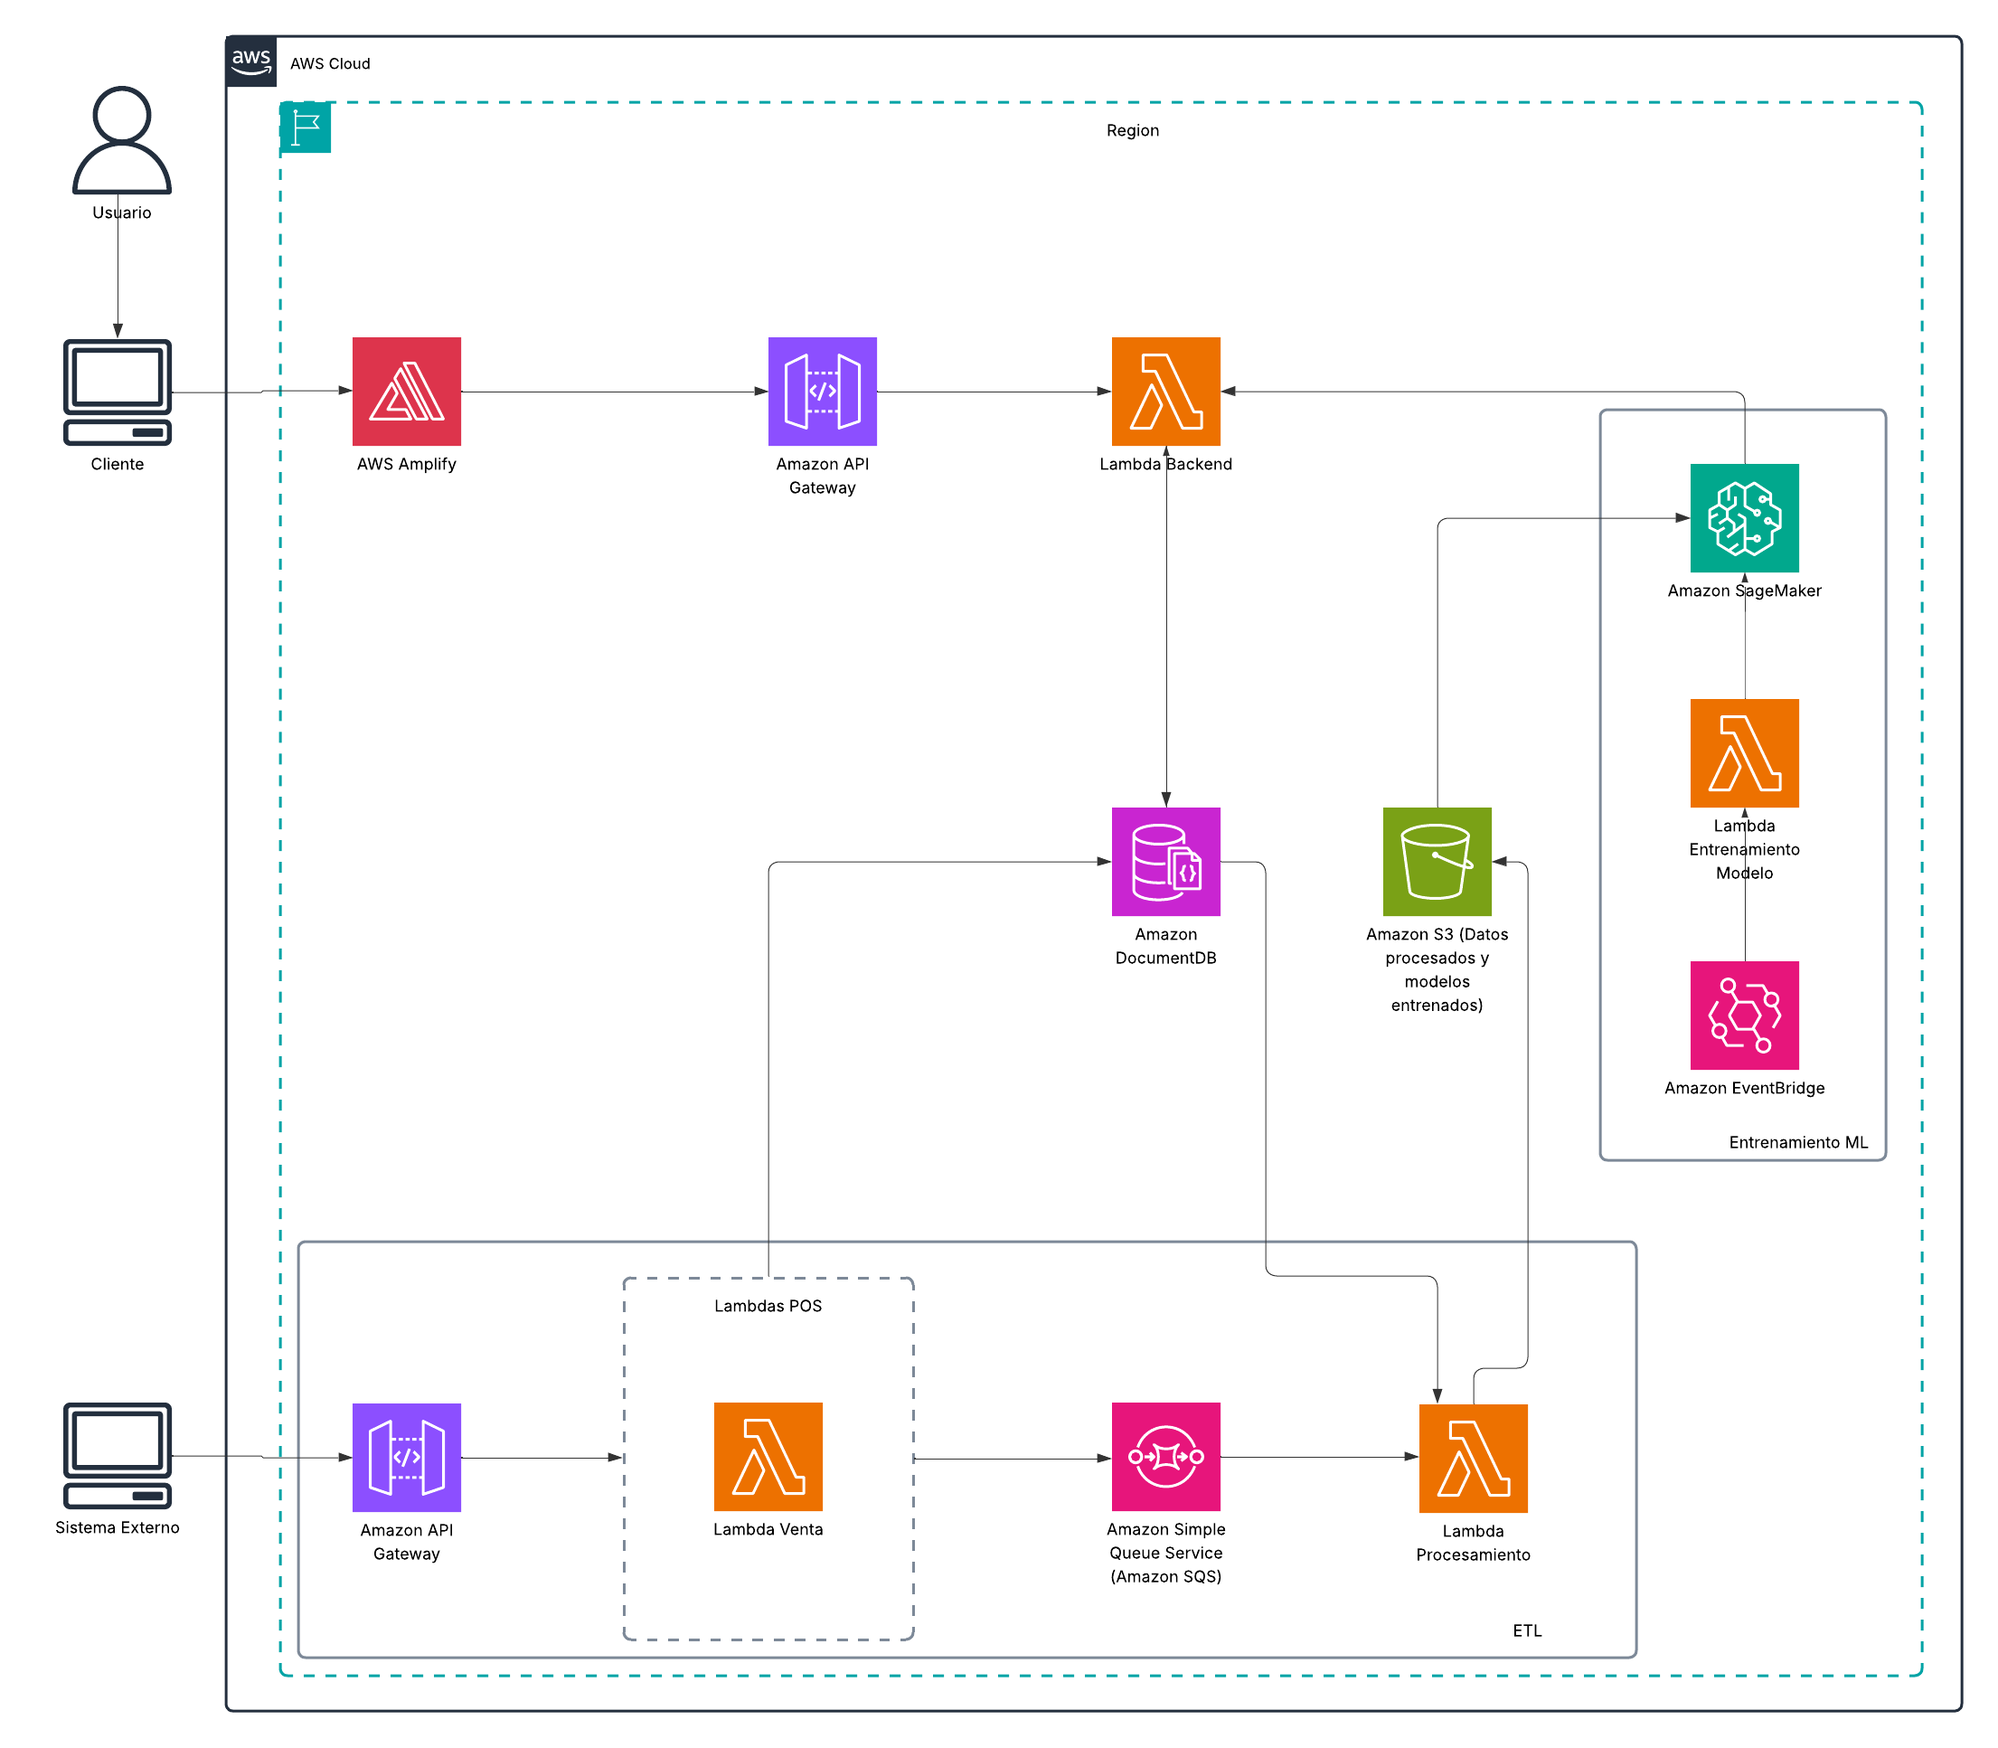
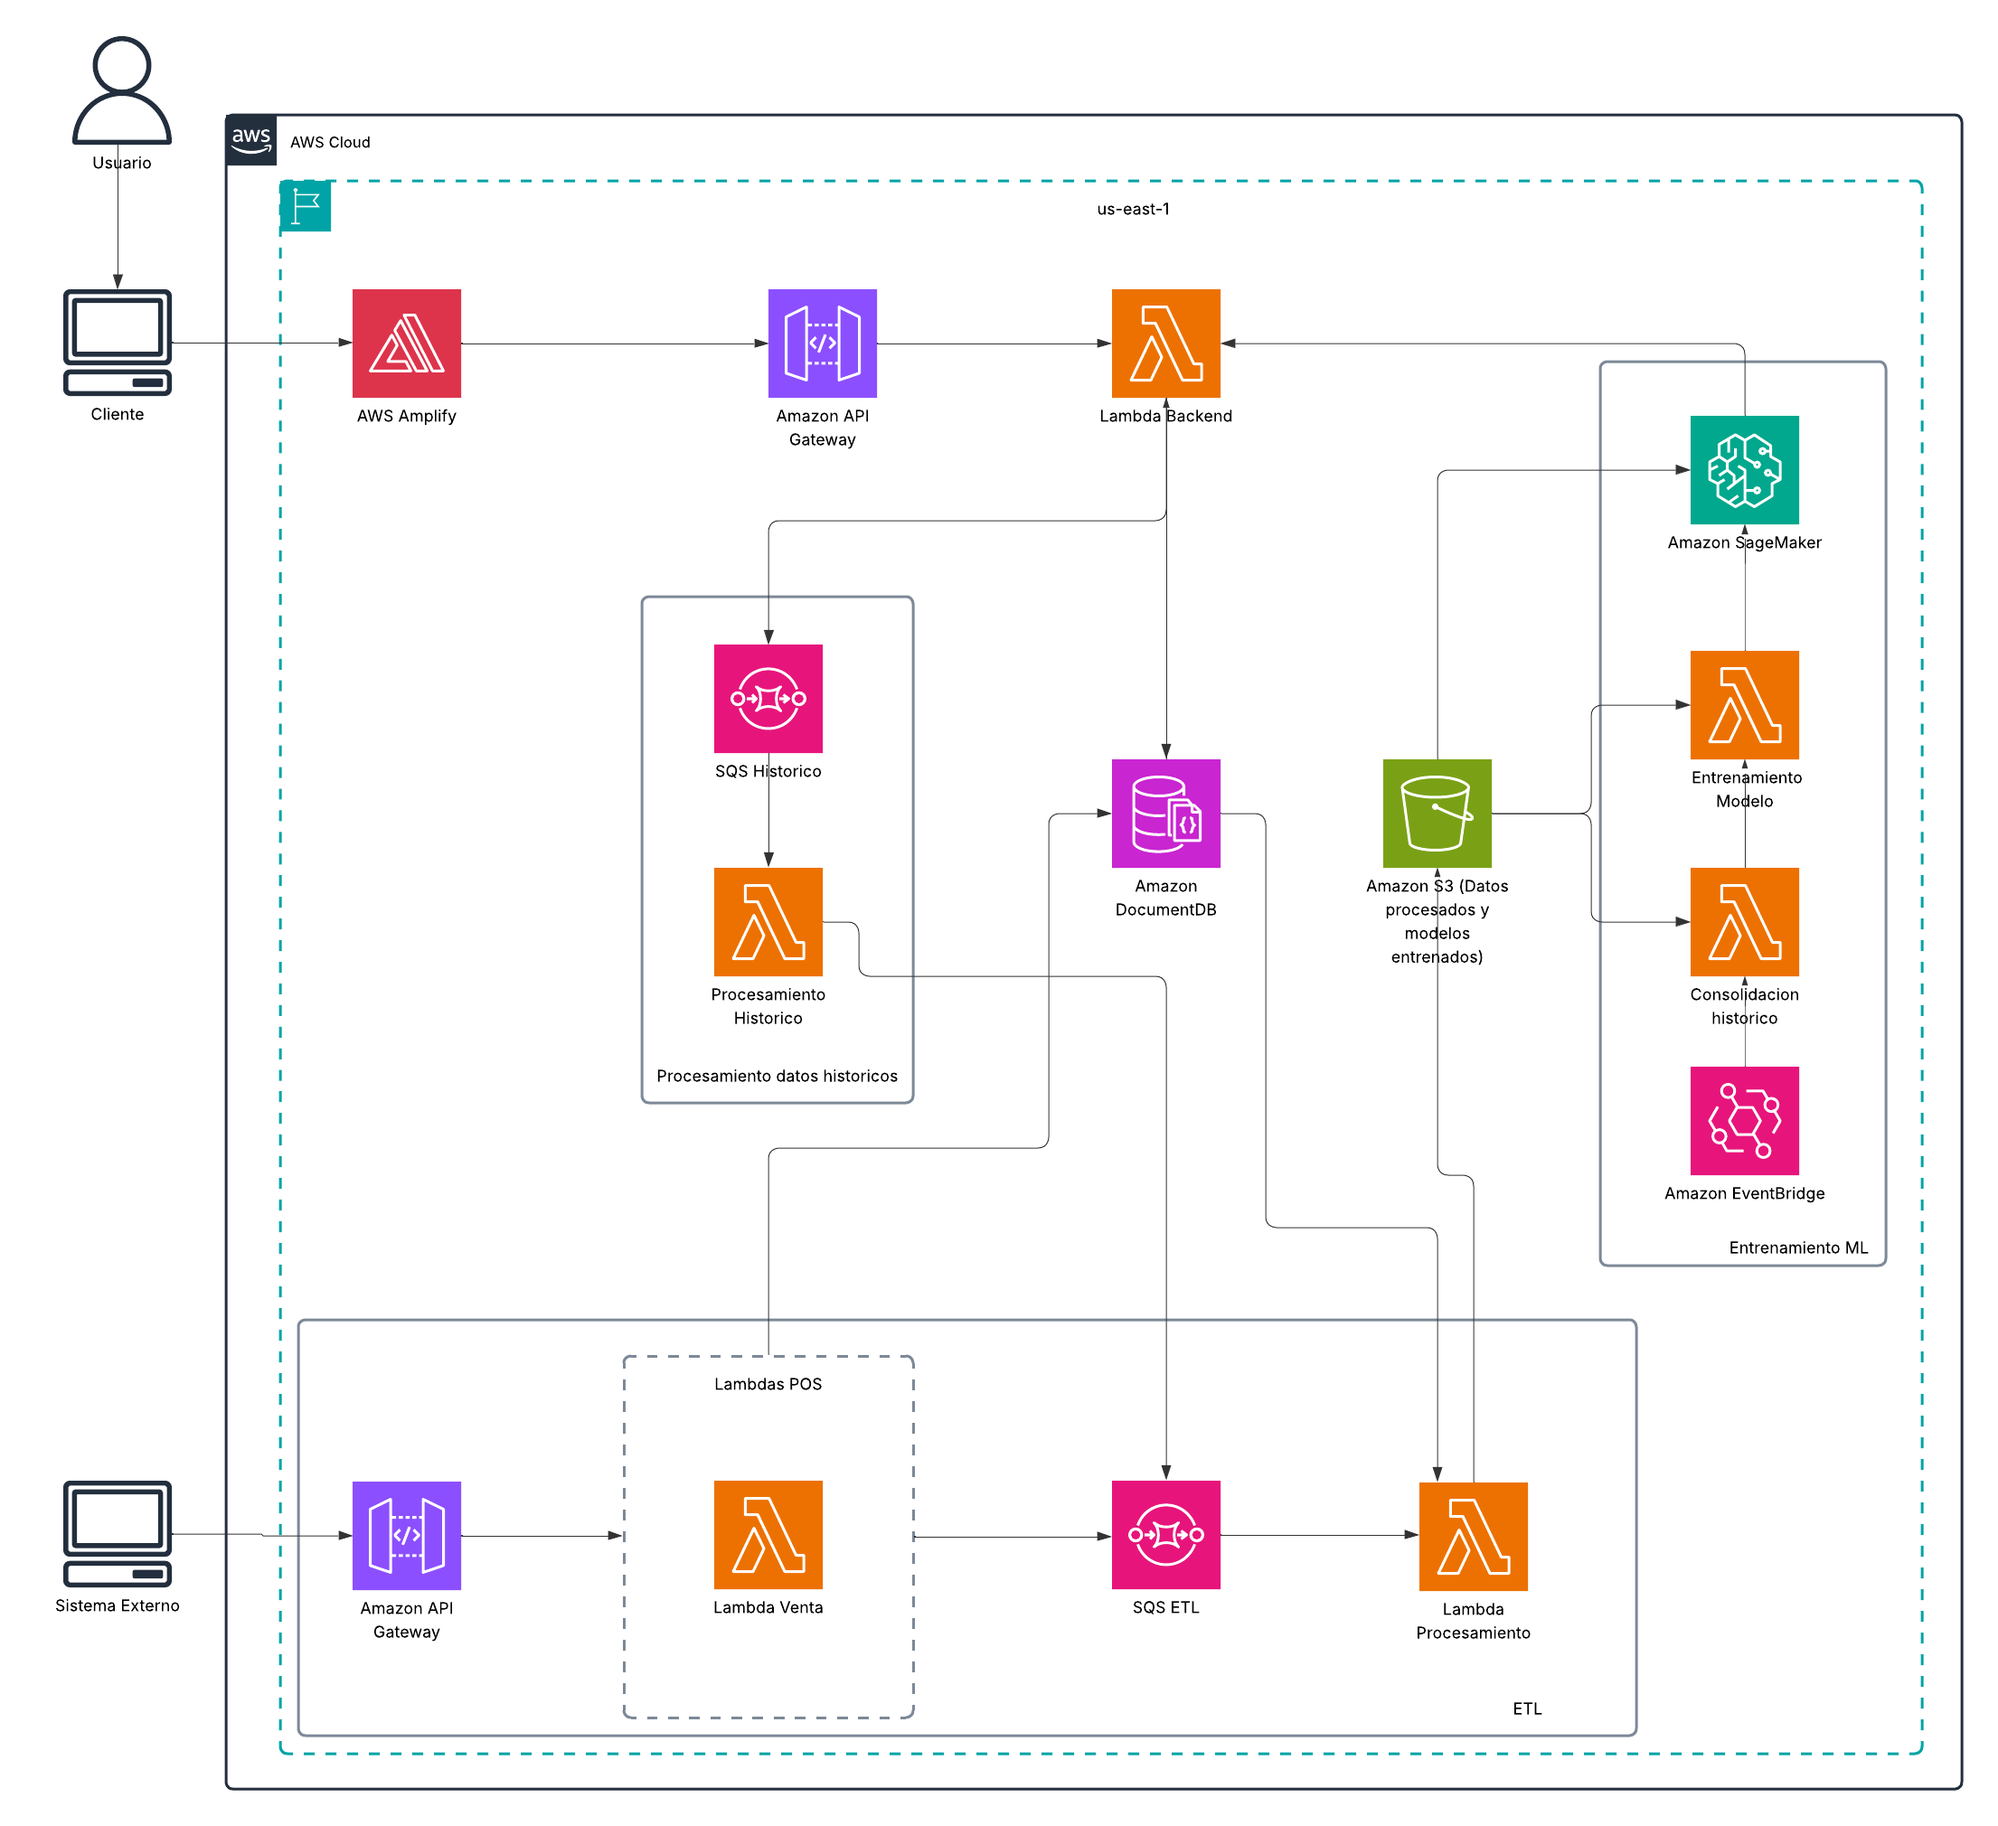
seccion tecnologias

diff --git a/chapters/chapter04.tex b/chapters/chapter04.tex
@@ -271,12 +271,47 @@ El módulo de notificaciones cumple un rol preventivo. Cada vez que un insumo al
 
 El valor de este componente radica en su capacidad para evitar interrupciones operativas. En un negocio gastronómico, la ausencia de un ingrediente clave no solo afecta la venta de un plato específico, sino que también impacta en la experiencia del cliente y en la reputación del local. Por esta razón, las alertas de stock bajo no deben considerarse únicamente como un aviso técnico, sino como un mecanismo de aseguramiento de la calidad del servicio.
 
+\section{Tecnologías utilizadas}\label{sec:tecnologias-utilizadas}
+
+SmartStocker se basa en una serie de tecnologías y herramientas que permiten su funcionamiento eficiente y escalable. A continuación, se detallan las principales tecnologías utilizadas en el desarrollo de la solución:
+
+\subsection{Next.js}\label{sec:nextjs}
+
+Framework basado en React que permite crear aplicaciones web optimizadas con renderizado del lado del servidor. El uso de React se basa en que es ampliamente utilizado en el ecosistema de desarrollo frontend actual, lo que simplifica su mantenimiento a futuro y nos provee de múltiples librerías para utilizar en el desarrollo.
+
+\subsection{Express}\label{sec:express}
+
+Framework de Node.js que facilita la creación de aplicaciones web y APIs. Utilizado debido a que es fácilmente desplegable de forma serverless, y porque no se detectó la necesidad de utilizar un lenguaje fuertemente tipado.
+
+\subsection{Python}\label{sec:python}
+
+Lenguaje de programación de alto nivel, versátil y ampliamente utilizado en ciencia de datos y machine learning. Su uso radica en la enorme cantidad de librerías disponibles para realizar trabajos con datasets, tales como Panda y Numpy, entre otras.
+
+\subsection{Amazon Web Services}\label{sec:aws}
+
+Para el despliegue y operación de SmartStocker se utiliza Amazon Web Services (AWS), una plataforma en la nube que permite implementar una arquitectura escalable, segura y altamente disponible. Dentro del ecosistema de AWS se emplean los siguientes servicios principales:
+
+\begin{itemize}
+    \item \textbf{AWS Amplify:} Plataforma que simplifica la creación, configuración y despliegue de aplicaciones web y móviles, integrando backend, hosting y flujos de desarrollo continuo. Se optó por su uso a fin de simplificar lo más posible los aspectos relacionados al despliegue del frontend, su capacidad de escalamiento ante la demanda, y su soporte nativo para Next.js.
+
+    \item \textbf{Amazon S3 (Simple Storage Service):} Servicio de almacenamiento de objetos que permite guardar y recuperar grandes volúmenes de datos de forma segura, duradera y altamente disponible. Optamos por su uso debido a que, por su bajo costo y durabilidad, nos permite guardar de forma segura los datos históricos y modelos entrenados para cada usuario.
+
+    \item \textbf{AWS Lambda:} Servicio de computación serverless que permite ejecutar código en respuesta a eventos sin necesidad de administrar servidores. Se decidió su uso a fin de facilitar la gestión de los procesos que corren en los pipelines y para reducir costos, dado que AWS factura su uso únicamente en base a las ejecuciones realizadas.
+
+    \item \textbf{Amazon EventBridge:} Servicio de gestión de eventos que facilita la conexión entre aplicaciones y la automatización de flujos mediante reglas y programación de tareas. Cumple de forma nativa con nuestro requerimiento de realizar entrenamientos de forma periódica.
+
+    \item \textbf{Amazon SageMaker:} Plataforma integral de machine learning que permite construir, entrenar y desplegar modelos de Machine Learning. Como la solución nativa de AWS para este tipo de aplicaciones, nos provee la capacidad de ejecutar nuestros procesos dentro de su entorno, lo que permite contar con una mayor disponibilidad de recursos en comparación con otras alternativas, como EC2 o Lambdas.
+
+    \item \textbf{Amazon DocumentDB:} Servicio de base de datos NoSQL compatible con MongoDB, diseñado para almacenar, consultar y escalar datos en formato de documentos JSON. Ofrece alta disponibilidad, seguridad integrada y capacidad de escalado automático. Optamos por su uso tanto por la flexibilidad que otorga en términos de esquema como por su integración natural con Node.js.
+
+    \item \textbf{Amazon SQS (Simple Queue Service):} Servicio de colas de mensajería que permite desacoplar y coordinar componentes de sistemas distribuidos. Facilita la comunicación asíncrona, el procesamiento escalable y la tolerancia a fallos entre servicios. Se incluyó en la solución a fin de ejecutar ciertos procesos de forma asíncrona, separados del componente que los inició originalmente, como el procesamiento de una venta.
+\end{itemize}
 
 \section{Arquitectura de la solución}\label{sec:arquitectura-solucion}
-En esta sección se presenta la arquitectura de SmartStocker, detallando las tecnologías empleadas para su diseño técnico y funcional. La arquitectura funciona como marco conceptual que sustenta cada componente del sistema y especifica las interacciones y dependencias entre las distintas partes que lo componen.
+En esta sección se presenta la arquitectura de SmartStocker, detallando como las tecnologías empleadas se implementan en el diseño técnico y funcional. La arquitectura funciona como marco conceptual que sustenta cada componente del sistema y especifica las interacciones y dependencias entre las distintas partes que lo componen.
 
 \subsection{Diagrama de Arquitectura conceptual}\label{sec:arquitectura-conceptual}
-En relación con la arquitectura de alto nivel de SmartStocker, se propone un modelo de tres capas que organiza la solución, asegurando una separación clara de responsabilidades y mejorando la escalabilidad. Esta estructura está diseñada para optimizar tanto la interacción con el usuario como el procesamiento y almacenamiento de los registros de venta y los resultados de inferencia generados por los modelos predictivos.
+En relación con la arquitectura de alto nivel de SmartStocker, se propone un modelo de tres capas que organiza la solución, asegurando una separación clara de responsabilidades y mejorando la escalabilidad. Esta estructura está diseñada para optimizar tanto la interacción con el usuario como el procesamiento y almacenamiento de los registros de venta y los resultados de inferencia generados por el modelo predictivo.
 
 La primera capa —Capa de Presentación (Presentation Layer)— agrupa la interfaz y la experiencia de usuario. En ella se implementa el frontend de SmartStocker con Next.js y se despliega mediante AWS Amplify, aprovechando sus capacidades de hosting y CI/CD. Esta capa permite a los usuarios interactuar con la plataforma, gestionar sus productos e ingredientes, visualizar recomendaciones y alertas, y realizar operaciones de predicciones de venta de forma responsiva y orientada a la operativa diaria.
 
@@ -303,7 +338,7 @@ Para la capa de negocio, se decidió implementar las distintas APIs requeridas m
 
 Esto también aplica para el pipeline de ETL, donde también se utiliza AWS Simple Queue Service (SQS) para desacoplar el procesamiento de las ventas, a fin de lograr velocidades de respuesta rápida ante los sistemas externos que enviaran las mismas, mientras que el procesamiento y enriquecimiento de las ventas se realiza en otra Lambda.
 
-Por último, se decidió usar AWS Sagemaker en el pipeline de ML, puesto que simplifica enormemente el entrenamiento del modelo, requiriendo suministrarle solamente el dataset a utilizar, y permite disponibilizar el modelo para ser usado para predicciones mediante endpoints, lo que brinda una consulta rápida y de fácil implementación.
+Por último, se decidió usar AWS Sagemaker en el pipeline de ML, puesto que simplifica el entrenamiento del modelo, requiriendo suministrarle los dataset de entrenamiento y validación a utilizar, y permite disponibilizar el modelo para ser usado para predicciones mediante endpoints, lo que brinda una consulta rápida y de facil implementacion.
 
 \begin{figure}[H]
     \centering
@@ -333,9 +368,9 @@ Con el objetivo de permitir la ingesta automática de las ventas, a fin de actua
 
 En base a esto, se implementó el uso de AWS SQS, permitiendo de esta forma que el resto de procesamiento requerido para transformar la venta en el dato requerido por el modelo ocurra en una Lambda distinta, que funciona como consumidor de la cola implementada en SQS, donde al finalizar la primer Lambda se encola un mensaje conteniendo el Id de la venta creada en DocumentDb, para que esta sea procesada por el consumidor. Esto nos brinda un procesamiento asincrónico y desacoplado de estas tareas que pueden ser más lentas, y permite que ocurran a un ritmo distinto de la Lambda inicial expuesta al resto de los sistemas de venta.
 
-Esta segunda Lambda se encargará de, en base a la información de la venta y consultas a APIs externas para la obtención de feriados y datos climáticos, generar las features que se considerarán en el entrenamiento del modelo, donde se consideran aspectos relacionados al momento cronológico de la venta, es decir, en qué turno de trabajo ocurre, si se realizó en un feriado, en que semana se hizo, si la venta ocurrió en un fin de semana, pero también se considera el aspecto climático, indicando tanto la estación como el estado climático en ese momento (nublado, despejado, lluvioso), a fin de lograr aspectos estacionales del consumo.
-Por último, al finalizar esta Lambda la información procesada es almacenada en un S3, disponible para ser usada al momento de entrenar el modelo.
+Esta segunda Lambda se encargará de procesar la venta, actualizando los niveles de stock y generando alertas de nivel del mismo si fuera necesario, para cada ingrediente utilizado en cada uno de los productos que integran cada venta.
 
+Por último, al finalizar esta Lambda la información de cada una de las ventas es almacenada en S3 en formato CSV, generando una fila por cada producto involucrado en cada una de las ventas, disponible para ser usada al momento de entrenar el modelo, durante el paso de consolidación histórica, donde la información correspondiente a cada usuario se encontrará separada mediante el identificador único del usuario, a fin de garantizar la integridad de la información en los usos subsecuentes.
 
 \subsection{Pipeline Machine Learning}\label{sec:pipeline-machine-learning}
 
